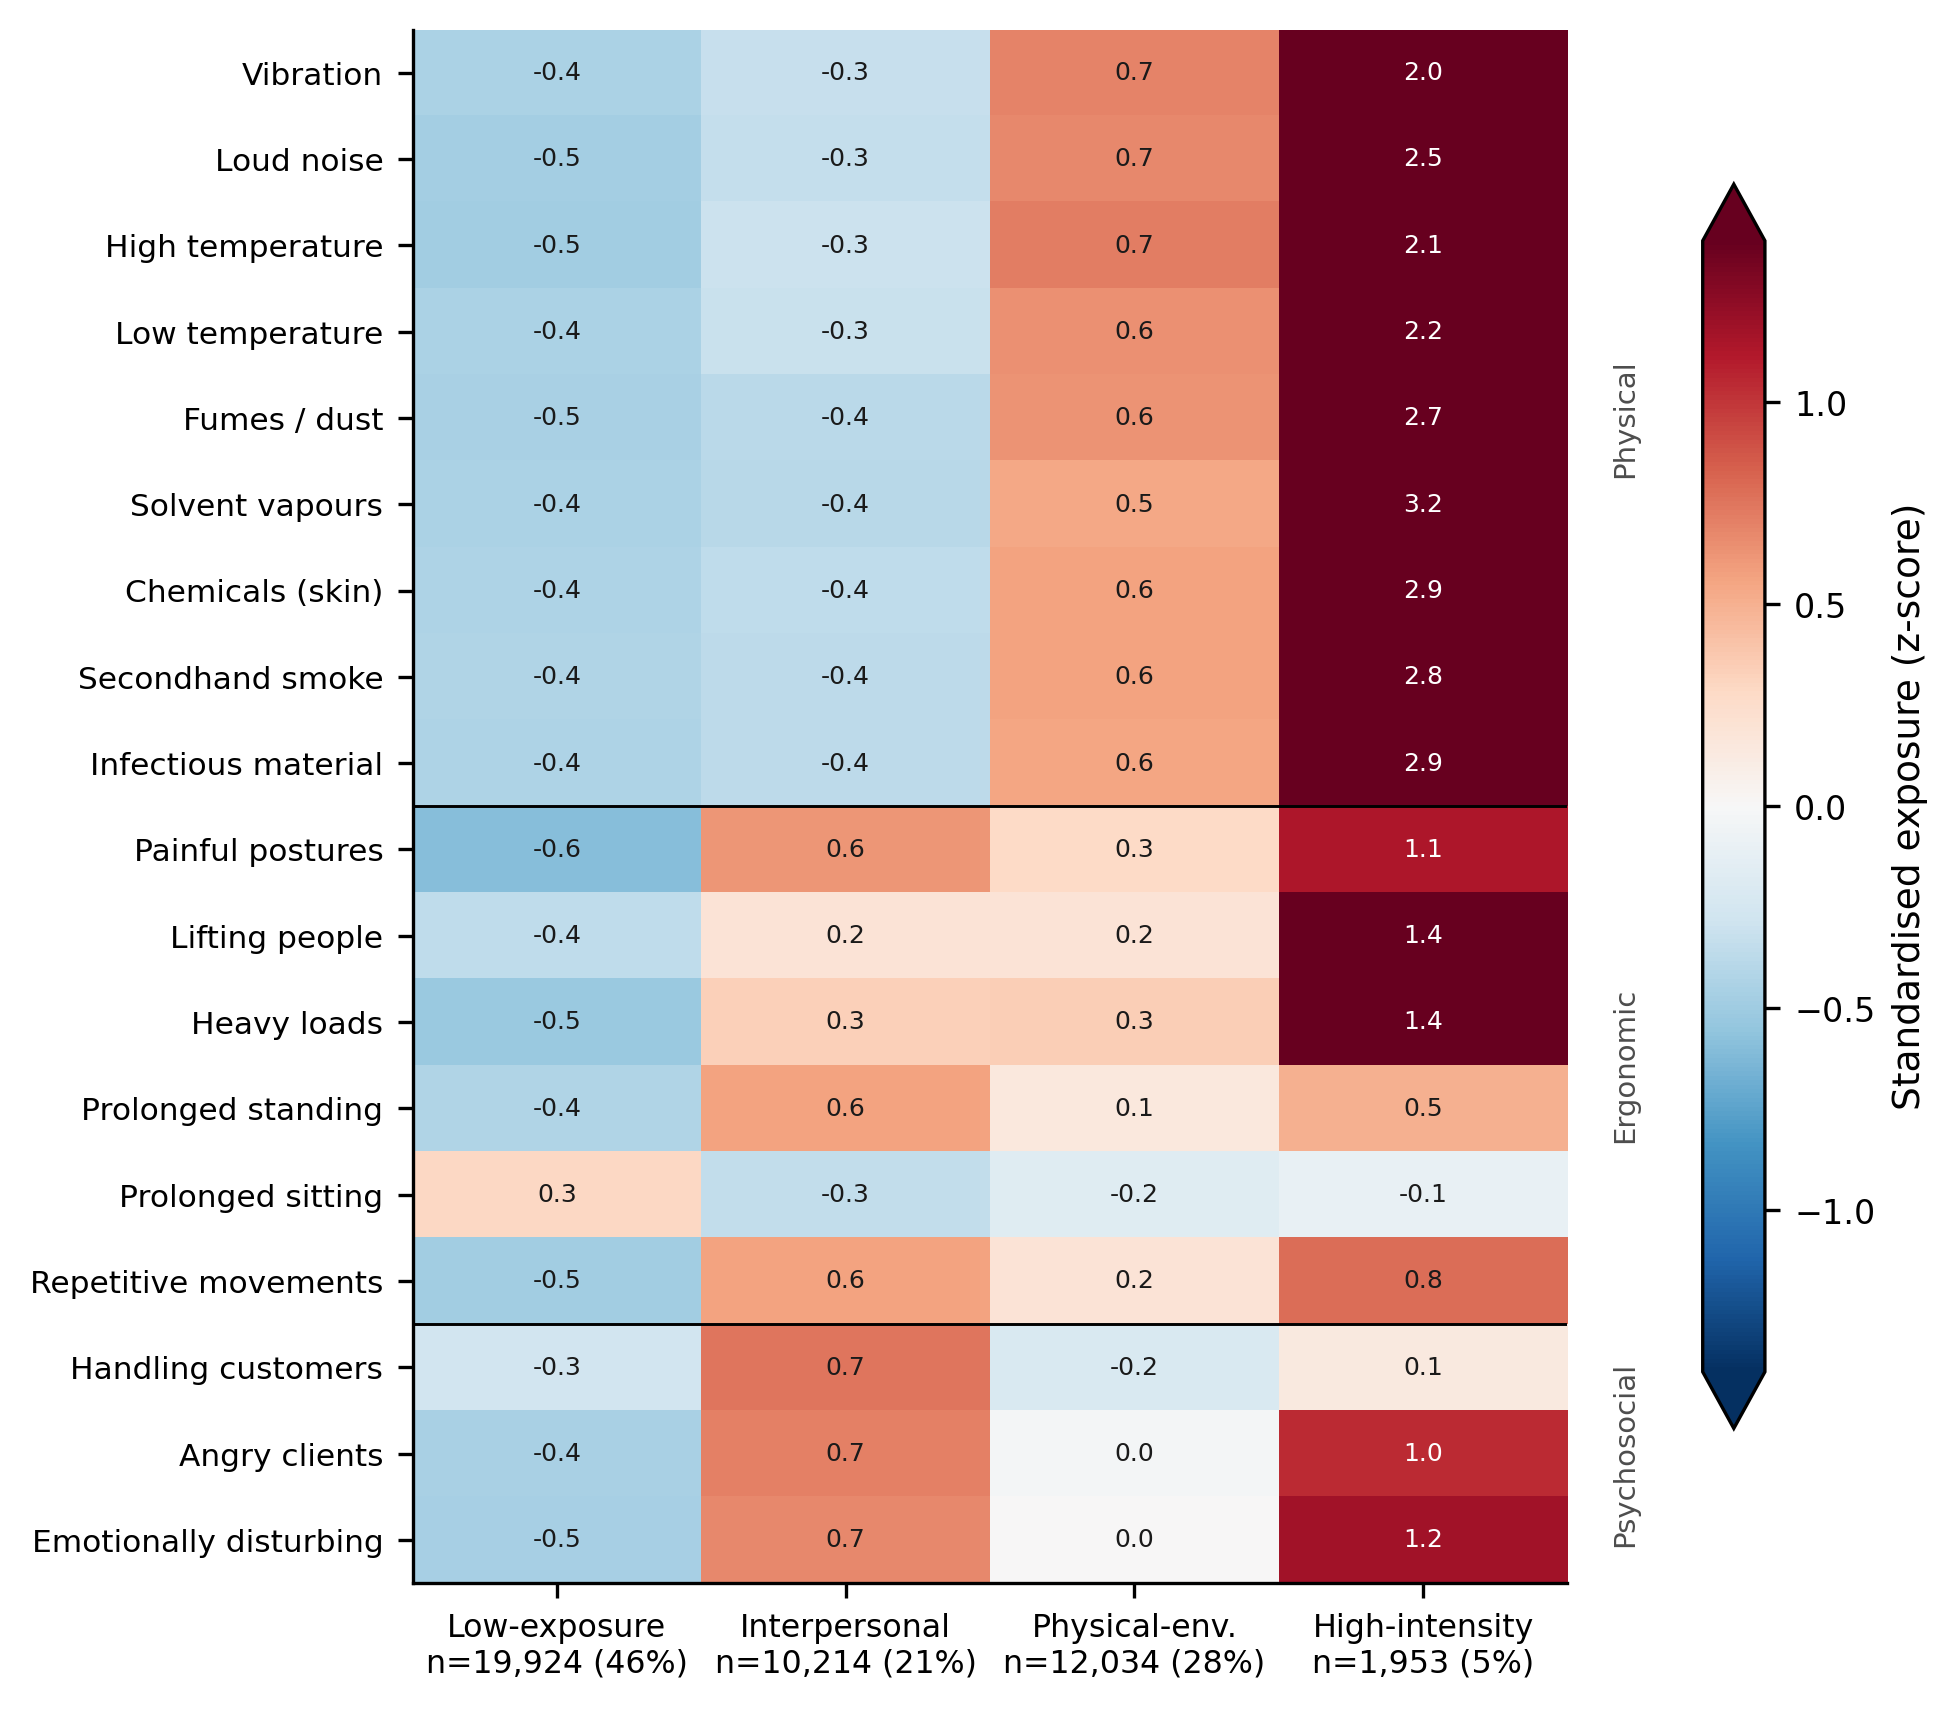
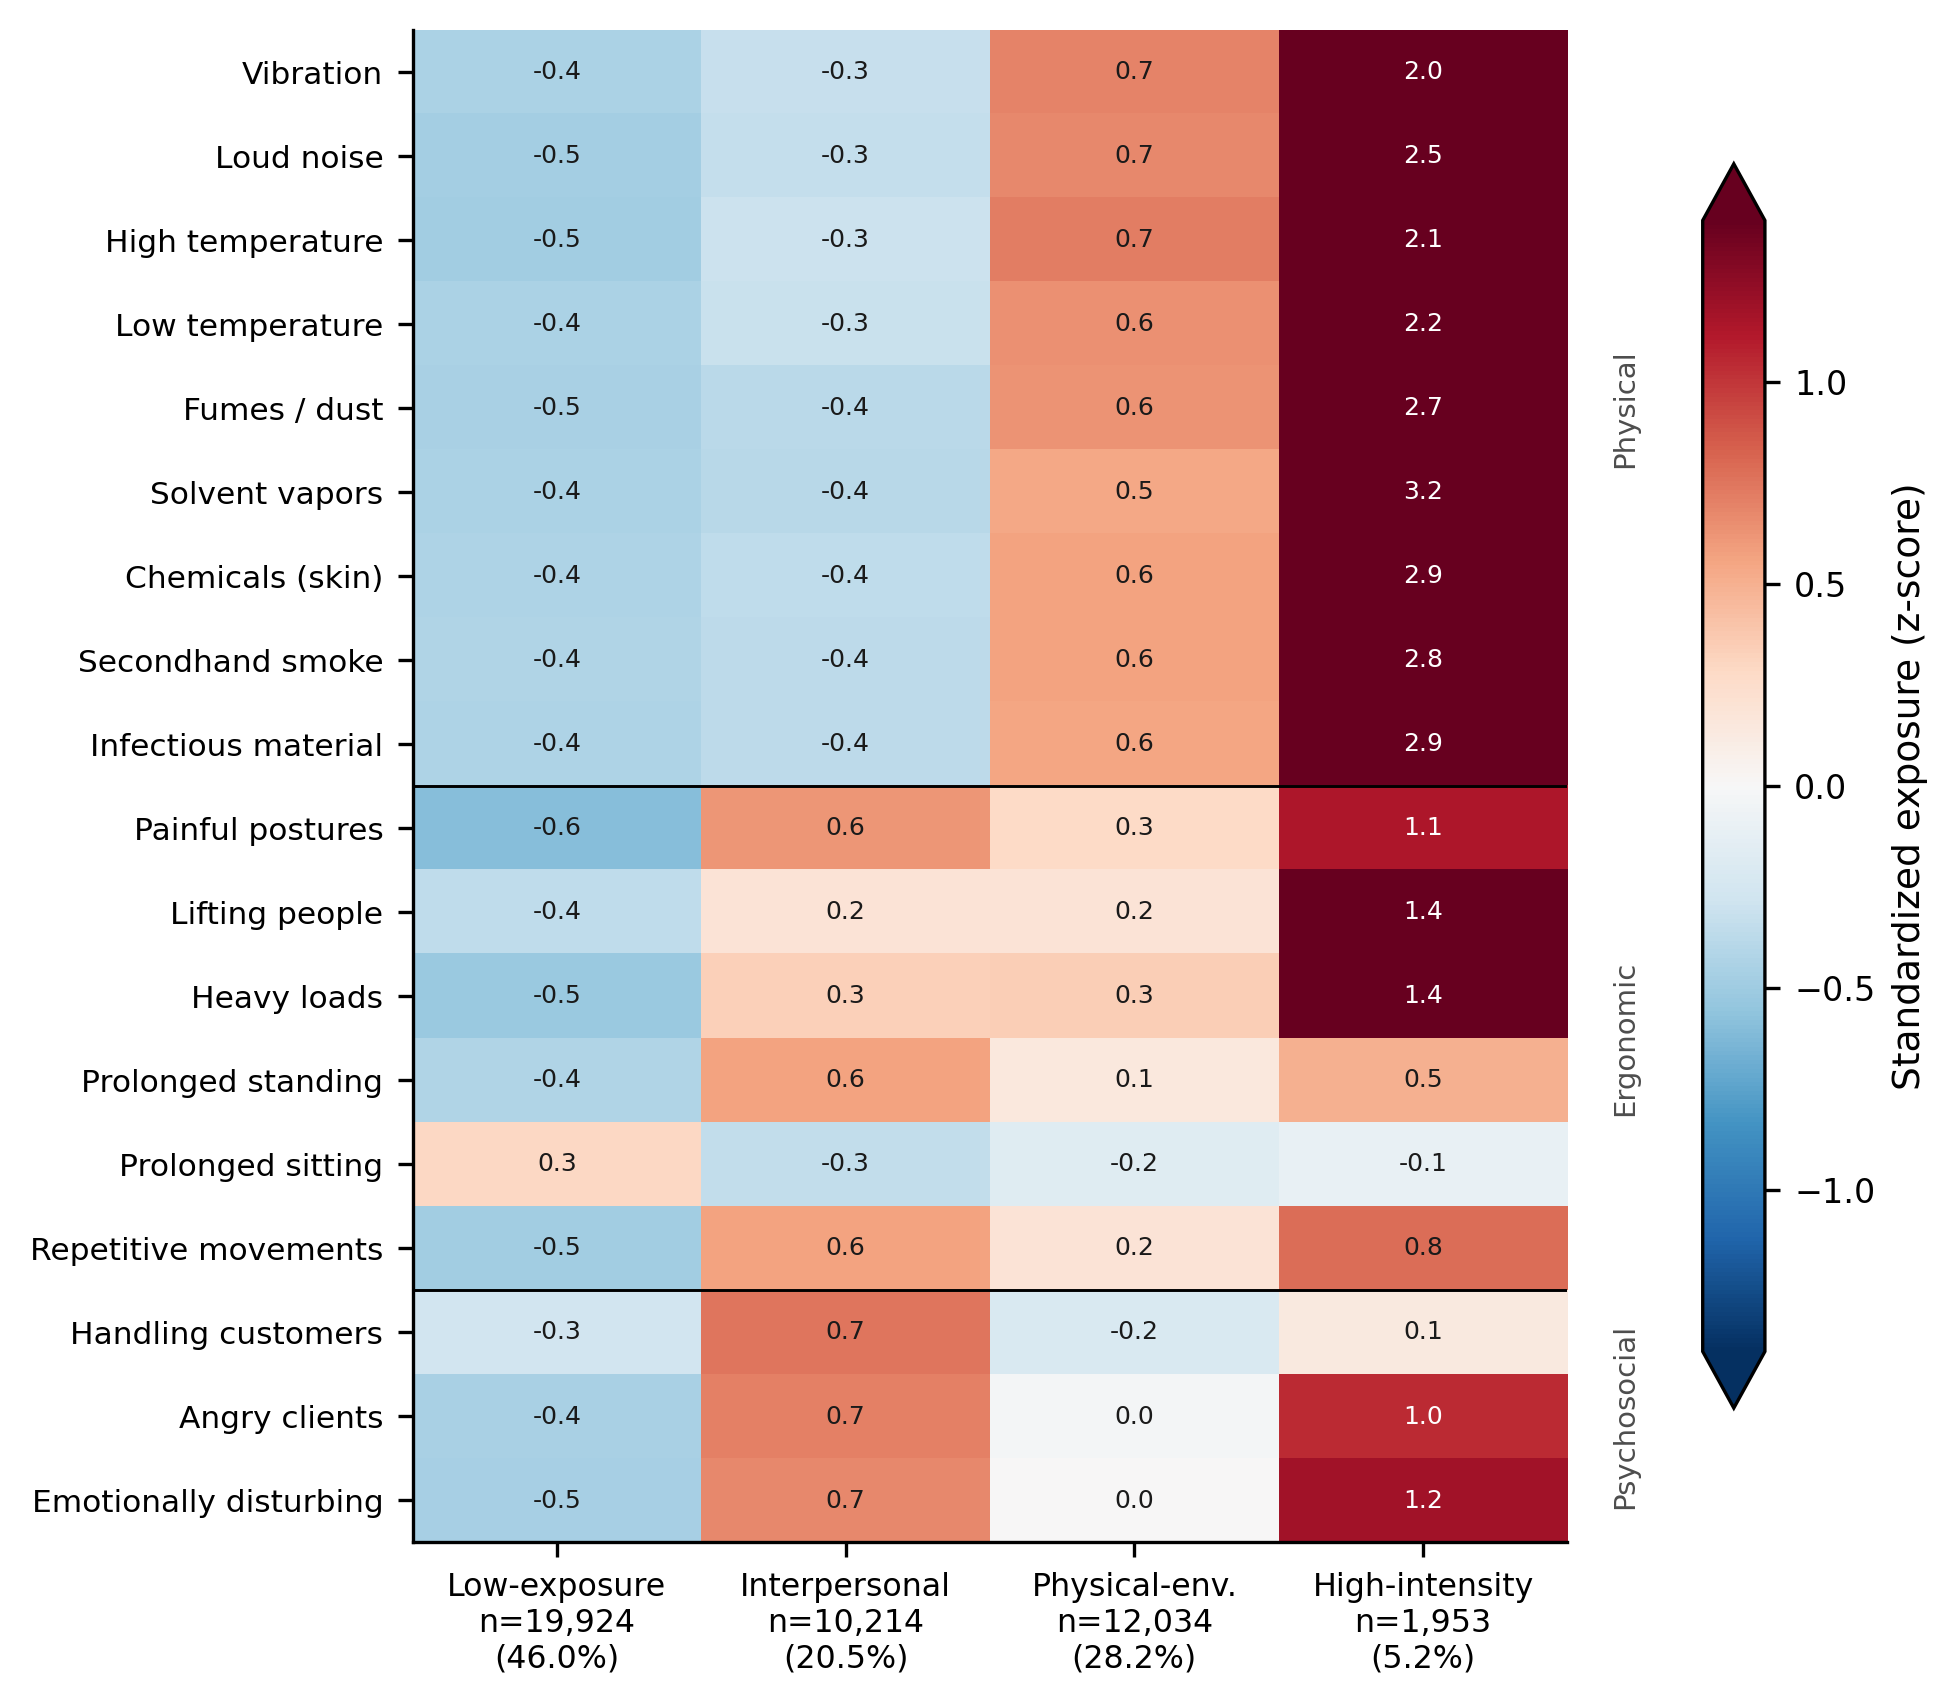
Align repository with the revised manuscript; scrub residual personal paths
- README: correct three methods claims (GMM tied-specification result, survey
  sandwich variance estimator, k-selection criteria), rebuild the results/
  layout from the actual tree, update the sample description to the four
  employment-status categories, and refresh stale runtime/row-count numbers.
- Notebook: fix the PC2 orientation guard in the k2-vs-k4 panel so a rerun
  reproduces the published Figure 2/S2 orientation; restore the Unicode
  dashes and US spellings the published artwork carries; report weighted
  shares at one decimal; compute the work-engagement Cronbach alpha; add
  Table SIX (general-health indicators by profile) to Cell 6c; replace the
  machine-specific path candidates with a KWCS_PROJECT_ROOT lookup and strip
  all cell outputs.
- results/: add tableS9_health_indicators.csv (Table SIX).
- figures/: regenerate the exposure heatmap (Standardized/vapors labels,
  one-decimal weighted shares).

diff --git a/README.md b/README.md
@@ -12,7 +12,7 @@ Analysis code and derived results for the study:
 
 Occupational-health surveillance usually studies one hazard at a time, but workers meet
 hazards in bundles. Using the 7th Korean Working Conditions Survey (2023, N = 44,125
-working-age respondents in employment — 62.7% wage employees, 30.2% self-employed, 7.1% unpaid family workers), we z-standardized **18 self-reported hazard-exposure items** across
+working-age respondents in employment — unweighted 62.7% wage employees, 23.4% employers, 6.8% own-account self-employed, 7.1% unpaid family workers; survey-weighted 78.4%, 13.5%, 5.3%, 2.8%), we z-standardized **18 self-reported hazard-exposure items** across
 physical, ergonomic, and psychosocial domains and partitioned workers with **k-means
 clustering**. Four outcomes were deliberately **withheld** from clustering and only then
 compared across the resulting profiles.
@@ -45,7 +45,7 @@ in the article and its Supporting Information, including:
 | 4c | Table SV — domain-mean profile of **every class under all four** GMM covariance structures |
 | 4d | Table SVI — Ward ARI across 8 subsamples; domain-balanced and domain-mean re-clustering; k = 5 |
 | 6b | Table III — unadjusted and adjusted models with the **survey sandwich** variance estimator |
-| 6c | Table SIV — presenteeism denominator diagnostics and the opposite-coding sensitivity analysis |
+| 6c | Table SIV — presenteeism denominator diagnostics and sensitivity; Table SIX — general-health indicators by profile |
 | 6d | Table SVII — finer control for job structure (3-digit occupation, industry, weekly hours) |
 
 Two points a reader checking the code should know:
@@ -59,7 +59,7 @@ Two points a reader checking the code should know:
   `reg_covar` = 1e-6), so the log-likelihood is a function of the regulariser. Cell 4c prints
   the minimum eigenvalue alongside each BIC so this is visible rather than implicit.
 
-`B_BOOT = 500` in Cell 4b takes 30–90 minutes; set it to `0` to skip the bootstrap sweep.
+`B_BOOT = 500` in Cell 4b took about 190 s for k = 2–8 on a 10-core Apple-silicon machine (2026-07-28); set it to `0` to skip the bootstrap sweep.
 
 ---
 
@@ -96,22 +96,26 @@ Open `KWCS7_exposure_profiles.ipynb` and run all cells.
 
 ```
 KWCS7_exposure_profiles.ipynb   Full analysis: cleaning -> clustering -> stability -> models
-results/                        Derived aggregate results (all cluster-level; no individual records)
-  ├── bootstrap500_ari.csv          Bootstrap stability, k = 2-8, 500 replicates each
-  ├── gmm_covariance_comparison.csv Gaussian-mixture cross-check, 4 covariance structures
-  ├── lpa_profiles_k4.csv           Model-based 4-class profiles
-  ├── unadjusted_models.csv         Survey-weighted unadjusted odds ratios
-  ├── adjusted_models.csv           Covariate-adjusted models (age, sex, occupation, employment)
-  ├── adjusted_risk_diff.csv        Model-based average marginal risk differences
-  ├── effect_sizes_wald.csv         Cramer's V, eta-squared, design-adjusted Wald tests
-  ├── table1_profile_z.csv          Standardized item means by profile
-  ├── table2_validation.csv         Outcome prevalences, unweighted and survey-weighted
-  └── tableS_selection.csv          Cluster-number selection indices
+results/                        Derived aggregate results (all profile-level; no individual records)
+  ├── table1_profile_z.csv              Standardized item means by profile (Table I / Figure 3)
+  ├── table1_summary.csv                Profile sizes, weighted shares, demographics (Table I)
+  ├── table2_validation.csv             Outcome prevalences, unweighted and survey-weighted (Table II)
+  ├── table3_adjusted.csv               Unadjusted and adjusted models, survey sandwich SEs (Table III)
+  ├── tableS2_bootstrap500.csv          Bootstrap reproducibility, k = 2-8, 500 replicates (Table SII)
+  ├── tableS3_items.csv                 The 18-item battery: labels, distributions (Table SIII)
+  ├── tableS4_presenteeism_sensitivity.csvPresenteeism denominator sensitivity (Table SIV)
+  ├── tableS5_gmm_profiles.csv          GMM cross-check, every class under 4 covariances (Table SV)
+  ├── tableS7_finer_adjustment.csv      Finer control for job structure (Table SVII)
+  ├── tableS8_wage_employees_only.csv   Wage-employee-only sensitivity (Table SVIII)
+  ├── tableS_gmm_crosscheck.csv         GMM ARI / label agreement / entropy summary
+  ├── tableS_selection.csv              Cluster-number selection indices (Table SI)
+  ├── table_effect_sizes.csv            Cramér's V, eta-squared, design-adjusted Wald tests
+  └── table_occ_share.csv               Occupational composition by profile (Figure 4)
 figures/                        Manuscript figures (PNG + PDF)
 tables/                         Manuscript tables (CSV)
 ```
 
-Everything in `results/` and `tables/` is aggregated to the profile level (4–17 rows per file).
+Everything in `results/` and `tables/` is aggregated to the profile level (4–27 rows per file).
 No individual-level records are published in this repository.
 
 ---
@@ -123,18 +127,23 @@ No individual-level records are published in this repository.
   are reintroduced when reporting how prevalent each profile is in the working population.
 - **k = 4 was not chosen by any single index.** Because all 18 hazards are positively
   intercorrelated, the silhouette and the Calinski–Harabasz index both favour the trivial
-  k = 2 intensity split, and the Davies–Bouldin index is non-monotonic. k = 4 was selected
-  from the inertia elbow together with compositional separability and bootstrap stability.
+  k = 2 intensity split, and the Davies–Bouldin index is non-monotonic. k = 4 was selected as the smallest solution separating exposure
+  composition from intensity, with the inertia elbow concurring; bootstrap stability was NOT
+  used to select k.
   `results/tableS_selection.csv` has the full index table.
 - **Bootstrap stability is high at every k** (mean ARI 0.92–0.99). It is therefore evidence
   that the chosen partition reproduces, *not* a criterion for choosing k.
-- **Gaussian mixtures do not recover the compositional class.** Under all four covariance
-  structures they grade along the intensity axis (ARI vs k-means 0.14–0.35) and never isolate
-  the interpersonal profile. This is reported rather than hidden — see
-  `results/gmm_covariance_comparison.csv`.
+- **The Gaussian-mixture cross-check depends on the covariance assumption.** Diagonal and
+  unconstrained mixtures absorb composition into within-class variance and grade purely along
+  the intensity axis, but the tied (homoscedastic, canonical-LPA) specification independently
+  recovers both the interpersonal-composition class (physical z = −0.25, psychosocial +0.51;
+  35.2%) and the extreme class (physical +2.62). The low overall ARI vs k-means (0.14–0.35)
+  reflects different boundary placement (35.2% vs 20.5%), not absence of the compositional
+  axis — see `results/tableS5_gmm_profiles.csv`.
 - **Design-adjusted inference is approximate.** Primary-sampling-unit identifiers are not
   released in the public-use file, so inference uses weight-normalized pseudo-maximum-likelihood
-  models with HC1 robust standard errors rather than a full survey design object.
+  models with the survey sandwich variance estimator built explicitly in Cell 6b, rather than
+  a full survey design object.
 - **Odds ratios are on the survey-weighted scale** and reproduce from the weighted, not the
   unweighted, prevalences.
 
